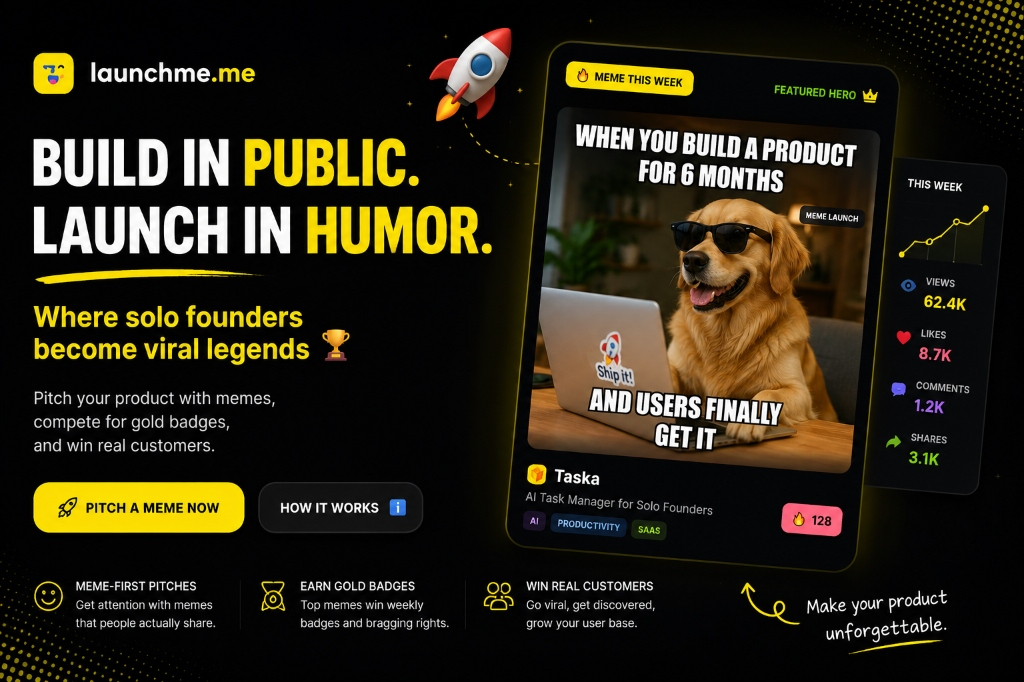
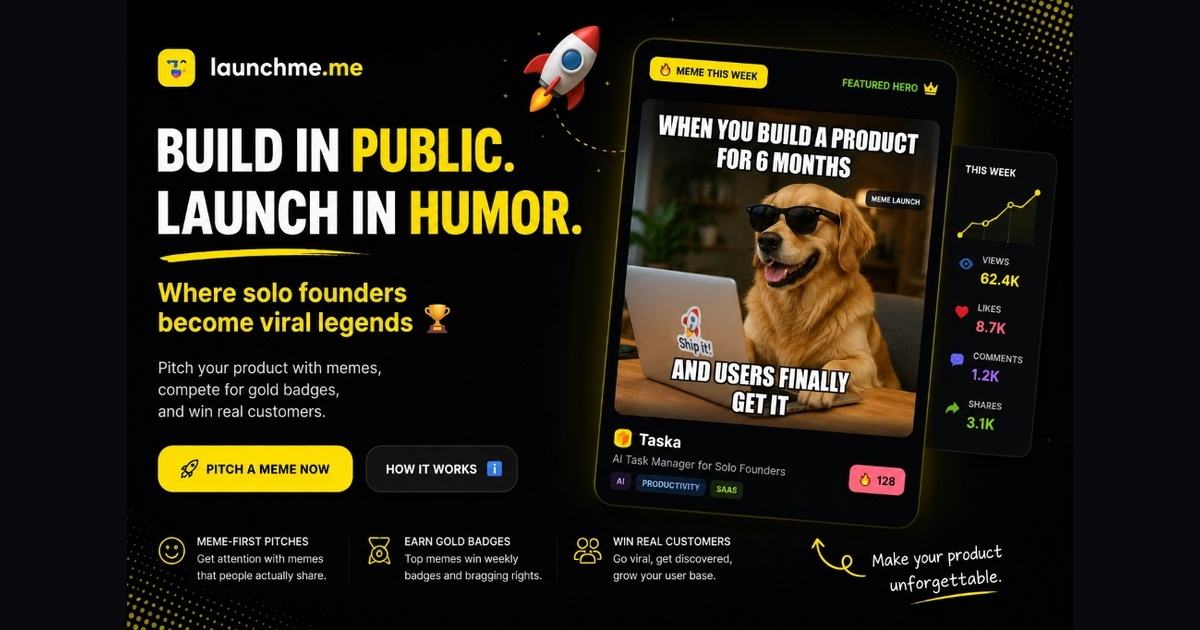
upv30

diff --git a/app/layout.tsx b/app/layout.tsx
@@ -67,9 +67,10 @@ export const metadata: Metadata = {
     description: "The playful, high-contrast alternative to Product Hunt. Pitch your SaaS or dev tool using viral memes.",
     images: [
       {
-        url: "https://www.launchme.me/og-image.jpg",
+        url: "https://www.launchme.me/og-image.png",
         width: 1200,
         height: 630,
+        type: "image/png",
         alt: "MemeLaunch — Build in Public. Launch in Humor.",
       },
     ],
@@ -80,7 +81,7 @@ export const metadata: Metadata = {
     description: "The playful, high-contrast alternative to Product Hunt. Pitch your SaaS or dev tool using viral memes.",
     site: "@launchme_me",
     creator: "@launchme_me",
-    images: ["https://www.launchme.me/og-image.jpg"],
+    images: ["https://www.launchme.me/og-image.png"],
   },
   icons: {
     icon: [

diff --git a/app/(main)/page.tsx b/app/(main)/page.tsx
@@ -21,9 +21,10 @@ export const metadata: Metadata = {
     siteName: 'MemeLaunch',
     images: [
       {
-        url: 'https://www.launchme.me/og-image.jpg',
+        url: 'https://www.launchme.me/og-image.png',
         width: 1200,
         height: 630,
+        type: 'image/png',
         alt: 'MemeLaunch — Build in Public. Launch in Humor.',
       },
     ],
@@ -36,7 +37,7 @@ export const metadata: Metadata = {
     description: 'MemeLaunch is the weekly battleground where indie hackers drop their funniest product memes, compete for top gold badges, and win real customers.',
     site: '@launchme_me',
     creator: '@launchme_me',
-    images: ['https://www.launchme.me/og-image.jpg'],
+    images: ['https://www.launchme.me/og-image.png'],
   },
 };
 
